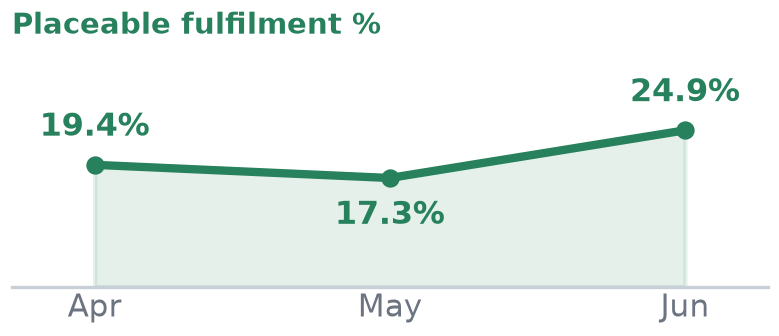
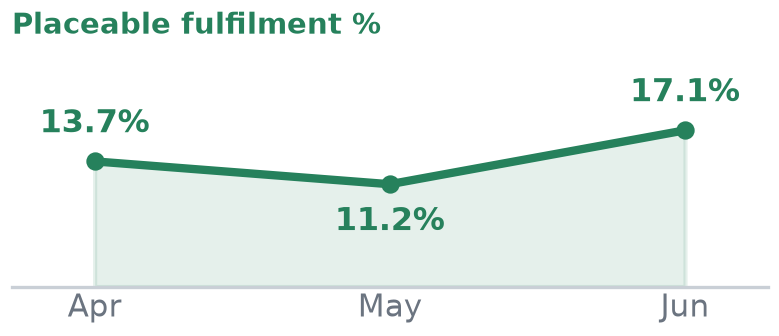
Update fulfilment% trend to 13.7/11.2/17.1 (Apr-Jun)
Claude-Session: https://claude.ai/code/session_01HTHNkMyy3hCJ7Wqf5x3kDZ

diff --git a/board_review_q2_2026/build_slide.py b/board_review_q2_2026/build_slide.py
@@ -113,7 +113,7 @@ rows=[
       chart="row2_demand",
       delivery=[("Matching, bid ranges & live visibility shipped",False),
                 ("June rebound — Bids 477 → 725 (+52%)",True),
-                ("Placeable fulfilment 17.3% → 24.9%",True),
+                ("Placeable fulfilment 11.2% → 17.1%",True),
                 ("Unique FO bidders 189 → 267",False)],
       focus=[("Lift placement on inventory & FO bids",False),
              ("Convert bids → trips (Jun dipped to 10)",False),

diff --git a/board_review_q2_2026/make_charts.py b/board_review_q2_2026/make_charts.py
@@ -65,7 +65,7 @@ ax.set_ylim(0, max(MAU)*1.18)
 save(fig, "row1_app")
 
 # ---------- 2. Demand fulfilment: Placeable Fulfilled % (Apr-Jun) ----------
-PF = [19.4, 17.3, 24.9]
+PF = [13.7, 11.2, 17.1]
 fig, ax = base_ax()
 ax.fill_between(x, PF, color=GREEN, alpha=0.12, zorder=1)
 ax.plot(x, PF, color=GREEN, lw=2.0, marker="o", ms=3.4, zorder=2)
